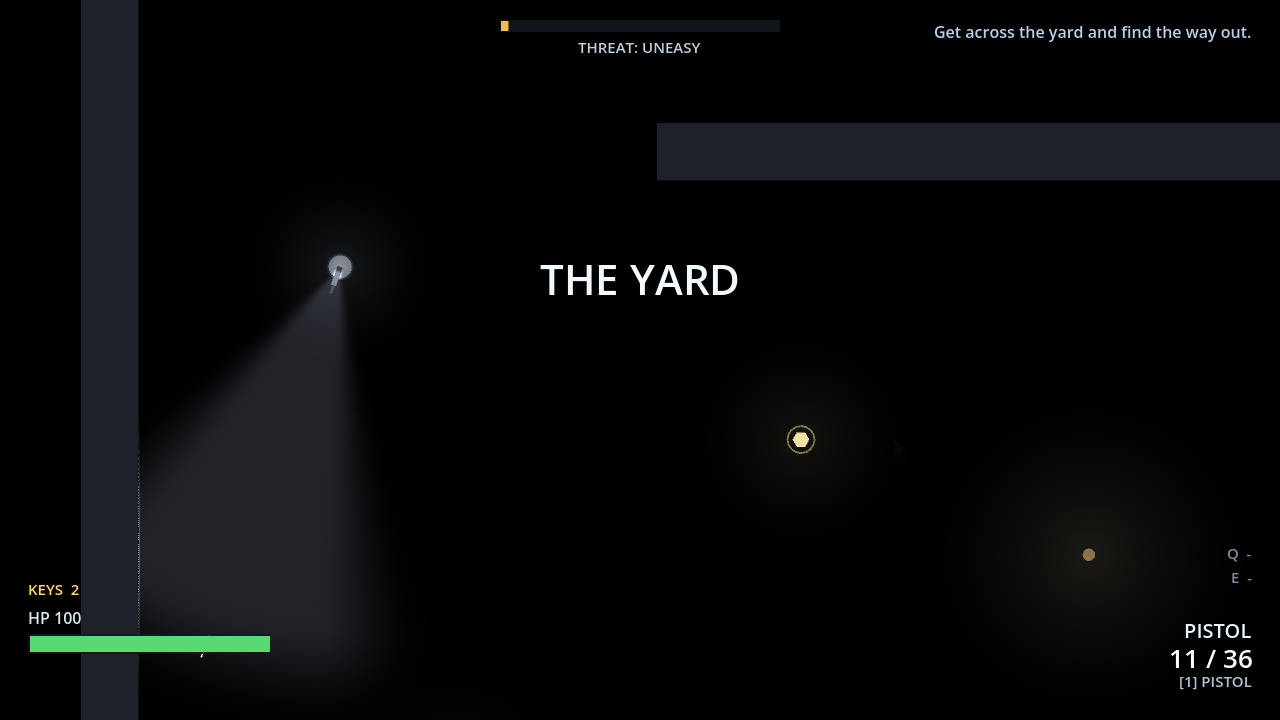
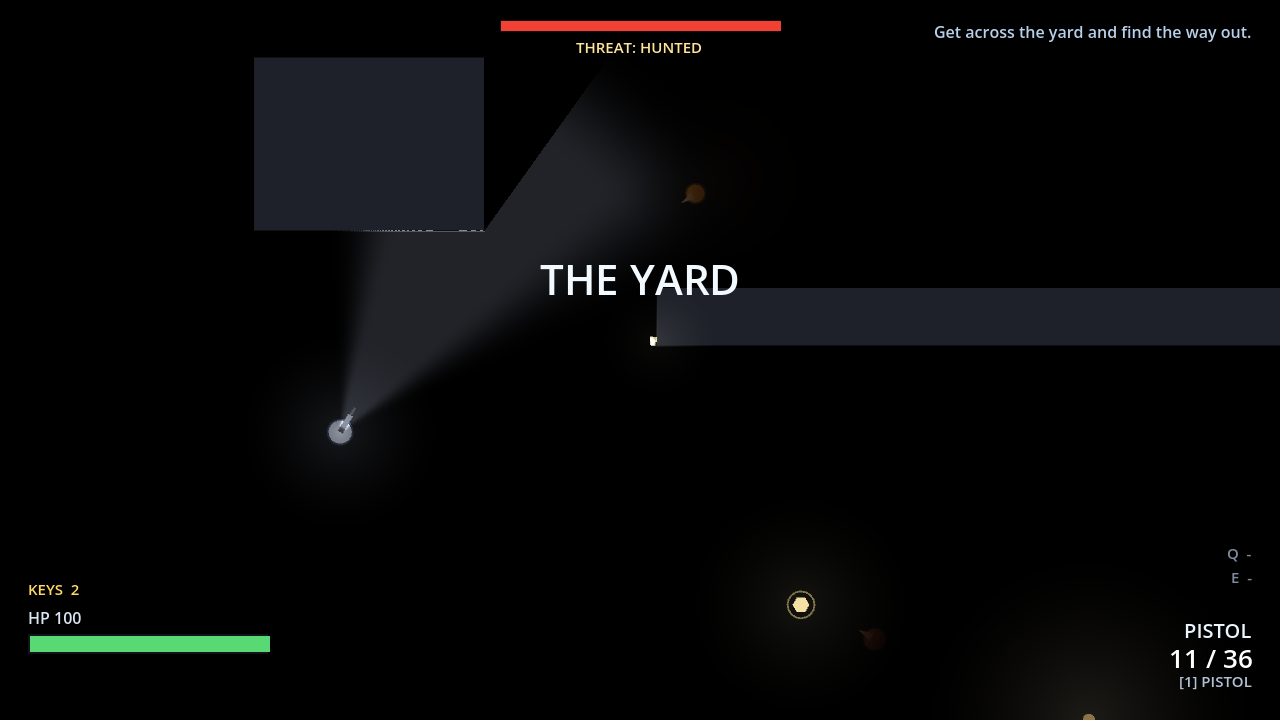
dont shoot thru walls

diff --git a/docs/DESIGN_NOTES.md b/docs/DESIGN_NOTES.md
@@ -119,6 +119,13 @@ Also worth knowing:
   a player teleported, respawned or dropped onto them.
 - Swapping scenes from inside a physics callback is not allowed; the level loader
   defers `change_scene_to_file`.
+- **A raycast ignores the whole shape its origin is inside.** The muzzle sits 20px ahead of a 14px-wide
+  player, so standing flush against a wall put the muzzle *inside* that wall — and a round spawned
+  there never saw it, flying out the far side and killing people behind cover. Two fixes, because one
+  was not enough: `Projectile.launch` now clamps the spawn to the first surface between the shooter's
+  centre and the muzzle, and the flight raycast uses `hit_from_inside = true` so any round that ever
+  finds itself inside geometry detonates instead of ignoring it. The clamp alone would leave the next
+  spawn path free to reintroduce it; the backstop alone would still spawn rounds past the wall.
 - **A debug drawing on the enemy's own canvas is invisible in the dark.** The search overlay lived in
   `Enemy._draw` at first, and produced nothing but two faint arcs on screen: an enemy's canvas item is
   darkened by the fog (that is how enemies stay invisible until your light reaches them), and a search
